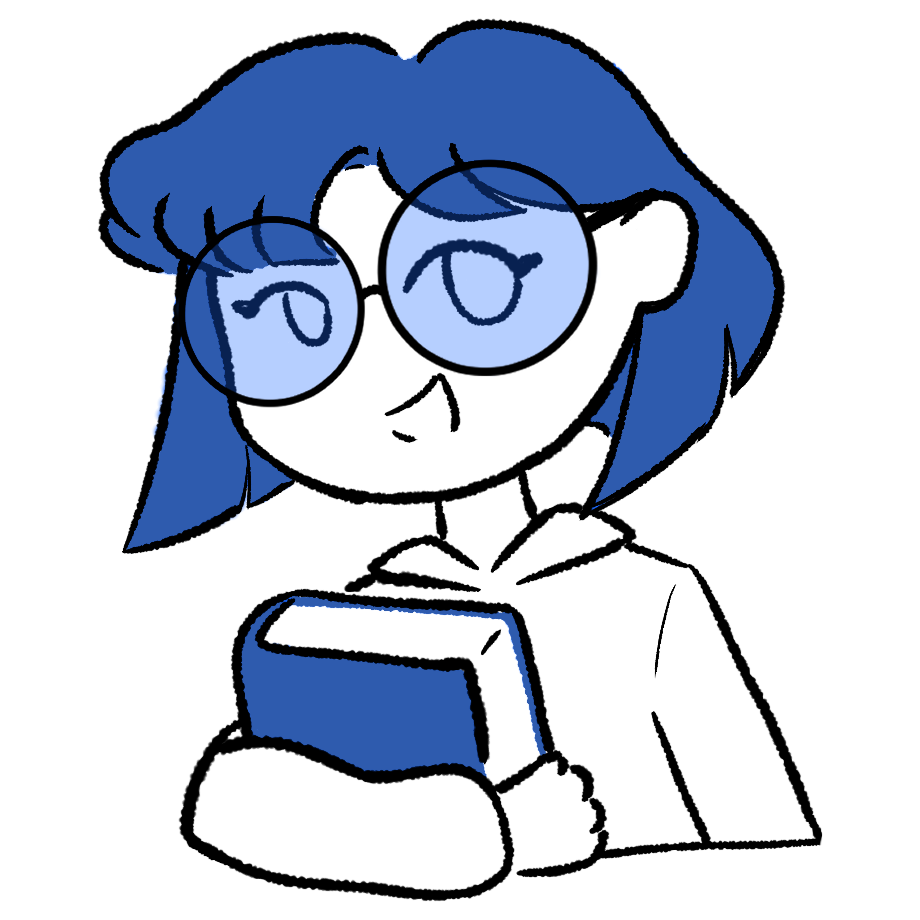
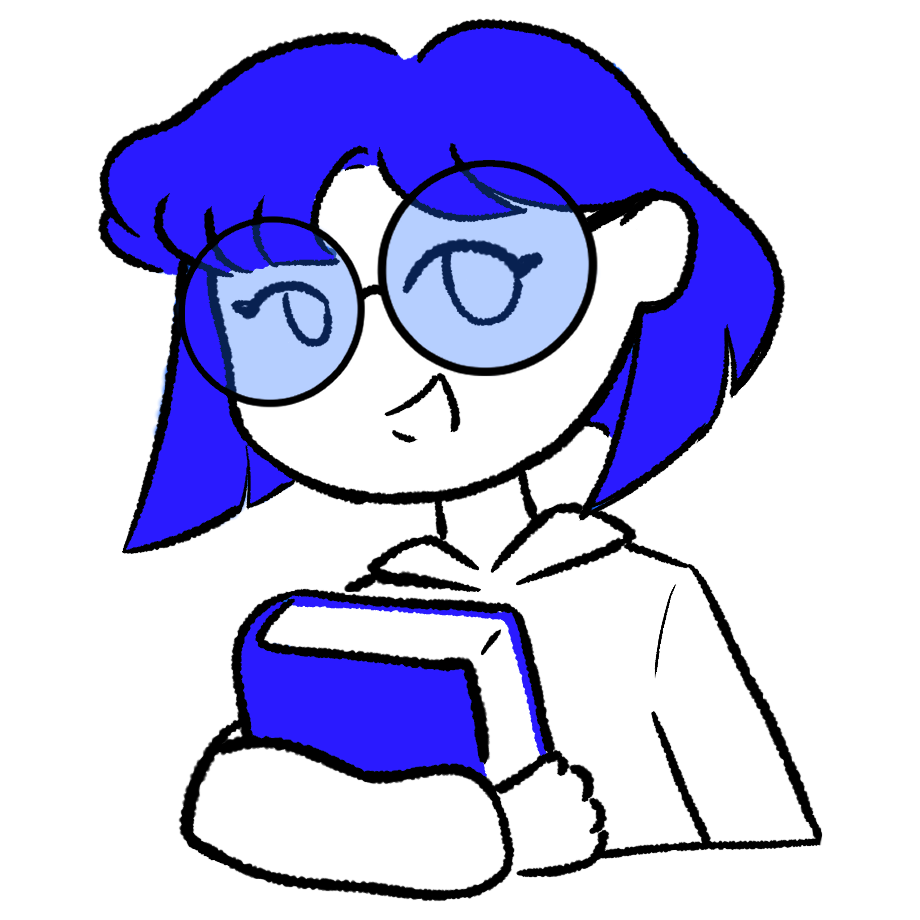
поменял картинки на новые и сделал анимацию для for_who

Changed region(s): [[0.0913, 0.0304, 0.8522, 0.6087], [0.2435, 0.6391, 0.5783, 0.8522], [0.5783, 0.7609, 0.6087, 0.8217]]

diff --git a/index.html b/index.html
@@ -639,19 +639,19 @@
       <div class="content">
         <h2>Кому подойдёт обучение в институте?</h2>
         <div class="for_who__boxes">
-          <div class="for_who__item">
+          <div class="for_who__item" id="for_who__item_left">
             <div class="for_who__img">
               <img src="img/in_school.png" />
             </div>
             <p>тем, кто углублённо занимался информатикой в школе</p>
           </div>
-          <div class="for_who__item">
+          <div class="for_who__item" id="for_who__item_center">
             <div class="for_who__img">
               <img src="img/undecided.png" />
             </div>
             <p>тем, кто не определился с будущей профессией в ИТ</p>
           </div>
-          <div class="for_who__item">
+          <div class="for_who__item" id="for_who__item_right">
             <div class="for_who__img special_picture">
               <img src="img/profession.png" />
             </div>
@@ -659,6 +659,7 @@
           </div>
         </div>
       </div>
+      <script src="script/for_who.js"></script>
     </section>
     <section class="block_button" id="about_entering">
       <div class="button_img_container">

diff --git a/styles/for_who.css b/styles/for_who.css
@@ -33,3 +33,63 @@
 .for_who__img.special_picture{
   padding-bottom: 21.21px;
 }
+
+.for_who__item_left_animation{
+  animation-name: for_who__item_left_animation;
+  animation-duration: 0.5s;
+  animation-fill-mode: forwards;
+}
+
+@keyframes for_who__item_left_animation {
+  from {
+    transform: translateX(-200%);
+  }
+  to {
+    transform: translateX(0);
+  }
+}
+
+.for_who__item_right_animation{
+  animation-name: for_who__item_right_animation;
+  animation-duration: 0.5s;
+  animation-fill-mode: forwards;
+}
+
+@keyframes for_who__item_right_animation {
+  from {
+    transform: translateX(200%);
+  }
+  to {
+    transform: translateX(0);
+  }
+}
+
+.for_who__item_center_animation{
+  animation-name: for_who__item_center_animation;
+  animation-duration: 0.5s;
+  animation-fill-mode: forwards;
+}
+
+@keyframes for_who__item_center_animation {
+  from {
+    transform: translateY(50%);
+    opacity: 0;
+  }
+  to {
+    transform: translateY(0);
+    opacity: 1;
+  }
+}
+
+#for_who__item_left{
+  transform: translateX(-200%);
+}
+
+#for_who__item_center{
+  transform: translateY(50%);
+    opacity: 0;
+}
+
+#for_who__item_right{
+  transform: translateX(200%);
+}

diff --git a/script/menu.js b/script/menu.js
@@ -61,3 +61,32 @@ document.addEventListener("DOMContentLoaded", function()
         }
     });
 });
+
+
+
+/* для работы меню*/
+document.addEventListener("DOMContentLoaded", function() {
+    const menuLinks = document.querySelectorAll('.menu-link');
+  
+    menuLinks.forEach(link => {
+      link.addEventListener('click', function(event) {
+        event.preventDefault(); 
+        const targetId = this.getAttribute('href'); 
+        const targetElement = document.querySelector(targetId);
+        scrollTo(targetElement); 
+        closeMobileMenu(); 
+      });
+    });
+    function scrollTo(element) {
+      window.scroll({
+        behavior: 'smooth',
+        left: 0,
+        top: element.offsetTop
+      });
+    }
+    function closeMobileMenu() {
+      const mobileMenu = document.getElementById('menu');
+      mobileMenu.classList.remove('active');
+    }
+  });
+  

diff --git a/script/main.js b/script/main.js
@@ -75,29 +75,3 @@ itemsToObserve2.forEach(item => {
     observer2.observe(item);
 });
 
-/* для работы меню*/
-document.addEventListener("DOMContentLoaded", function() {
-    const menuLinks = document.querySelectorAll('.menu-link');
-  
-    menuLinks.forEach(link => {
-      link.addEventListener('click', function(event) {
-        event.preventDefault(); 
-        const targetId = this.getAttribute('href'); 
-        const targetElement = document.querySelector(targetId);
-        scrollTo(targetElement); 
-        closeMobileMenu(); 
-      });
-    });
-    function scrollTo(element) {
-      window.scroll({
-        behavior: 'smooth',
-        left: 0,
-        top: element.offsetTop
-      });
-    }
-    function closeMobileMenu() {
-      const mobileMenu = document.getElementById('menu');
-      mobileMenu.classList.remove('active');
-    }
-  });
-  

diff --git a/script/for_who.js b/script/for_who.js
@@ -1,0 +1,16 @@
+
+const observer_for_who = new IntersectionObserver(entries => {
+    const entry = entries[0]; 
+    if (entry.isIntersecting) 
+    {
+        document.getElementById('for_who__item_left').classList.add('for_who__item_left_animation');
+        document.getElementById('for_who__item_right').classList.add('for_who__item_right_animation');
+        document.getElementById('for_who__item_center').classList.add('for_who__item_center_animation');
+        observer_for_who.disconnect();
+    }
+}, {
+    rootMargin: '-200px' 
+});
+
+const elements_for_who = document.querySelector('.for_who__boxes');
+observer_for_who.observe(elements_for_who);
